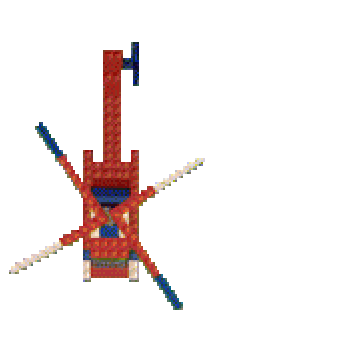
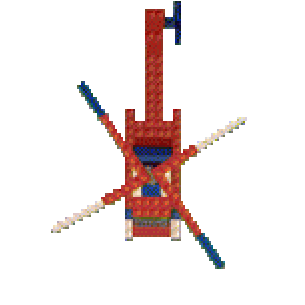
city: fix 5 landing/walking/room bugs
- No re-board on step-out: removed boardHelicopter; takeoff is now only
  walking into the copter (handled via 'h'/callHelicopter). Narrowed
  DOOR_REACH and added STEP_OUT so the person lands clear of the copter.
- Door-only entry: enterableHouse() requires the player to be at the
  narrow door (DOOR_REACH), not anywhere along the house side.
- Bigger person/Tooly in street and room views (per-render fitHeight).
- Room closer to original (room.cpp): larger brick courses
  (tileScale 2.0, gentler side walls bwL/bwR 0.12/0.88), bigger floor
  studs (floorUV 4.5x3.5).
- Stable helicopter body across rotor frames: centroid alignment in
  bake_directional for heli-fly/heli-land so the fuselage no longer
  jumps between blade frames.

Changed region(s): [[0.0295, 0.0, 0.8262, 0.9148]]

diff --git a/src/city/city-scene.ts b/src/city/city-scene.ts
@@ -97,7 +97,6 @@ export class CityScene {
   private toolyX = 0;
   private toolyIX = 0.4;
   private toolyIY = 0.8;
-  private personBaseScale = 1;
   /** Street-view camera centre (world x). Follows the walker within a band so
    * they move on screen before the world scrolls (prgrmmr.cpp min_x/max_x). */
   private streetCamCx = 0;
@@ -110,7 +109,6 @@ export class CityScene {
   private mouseDY = 0;
   private locked = false;
   private lockUnavailable = false;
-  private takingOff = false;
 
   constructor(
     private readonly renderer: Renderer,
@@ -177,9 +175,9 @@ export class CityScene {
     brick.baseTexture.wrapMode = PIXI.WRAP_MODES.REPEAT;
     for (const f of Object.values(assets.floors)) f.baseTexture.wrapMode = PIXI.WRAP_MODES.REPEAT;
     this.backWall = new PIXI.TilingSprite(brick, 64, 64);
-    this.backWall.tileScale.set(0.5);
-    const wallUV = (): Float32Array => new Float32Array([0, 0, 4, 0, 4, 3, 0, 3]);
-    const floorUV = new Float32Array([0, 0, 12, 0, 12, 9, 0, 9]);
+    this.backWall.tileScale.set(2.0); // big, clear brick courses (match original)
+    const wallUV = (): Float32Array => new Float32Array([0, 0, 1.3, 0, 1.3, 1.4, 0, 1.4]);
+    const floorUV = new Float32Array([0, 0, 4.5, 0, 4.5, 3.5, 0, 3.5]); // big lego studs
     const idx = (): Uint16Array => new Uint16Array([0, 1, 2, 0, 2, 3]);
     const mesh = (tex: PIXI.Texture, uv: Float32Array): PIXI.SimpleMesh =>
       // eslint-disable-next-line @typescript-eslint/no-explicit-any
@@ -208,7 +206,6 @@ export class CityScene {
     this.tooly = new DirectionalSprite(assets.tooly, 110);
     fitHeight(this.heliFly.sprite, 130); // re-fit per frame in renderFlying/renderStreet
     fitHeight(this.person.sprite, 116);
-    this.personBaseScale = this.person.sprite.scale.x;
     fitHeight(this.tooly.sprite, 64);
     this.heliFly.sprite.anchor.set(0.5, 0.5);
     this.heliLand.sprite.anchor.set(0.5, 1);
@@ -304,7 +301,6 @@ export class CityScene {
     return this.active;
   }
   resume(): void {
-    this.takingOff = false;
     if (this.model.mode === 'inside') this.model.iy = 0.72;
     else this.model.standUp();
     this.streetCamCx = this.model.cx; // re-centre the street camera on the walker
@@ -385,15 +381,14 @@ export class CityScene {
       this.heliFly.update(dt, true);
       if ((this.model.mode as CityMode) === 'landing') this.toolyX = this.model.cx - BLOCK_W * 0.03;
     } else if (this.model.mode === 'landing') {
-      const up = this.takingOff || this.buttons.right || this.keys.has('ArrowUp');
-      const down = !this.takingOff && (this.buttons.left || this.keys.has('ArrowDown'));
+      const up = this.buttons.right || this.keys.has('ArrowUp');
+      const down = this.buttons.left || this.keys.has('ArrowDown');
       const dir: -1 | 0 | 1 = up ? 1 : down ? -1 : 0;
-      const drift = this.takingOff ? 0 : this.inputPxX(LAND_SCREENS_PER_S, dt) / K_SIDE;
+      const drift = this.inputPxX(LAND_SCREENS_PER_S, dt) / K_SIDE;
       const descentPx = this.heliBaseY() - this.renderer.height * 0.18;
-      const dLandY = this.takingOff ? 0 : -this.inputPxY(LAND_SCREENS_PER_S, dt) / descentPx;
+      const dLandY = -this.inputPxY(LAND_SCREENS_PER_S, dt) / descentPx;
       this.model.land(dir, dt, drift, dLandY);
       this.heliLand.update(dt, true);
-      if ((this.model.mode as CityMode) === 'flying') this.takingOff = false;
     } else if (this.model.mode === 'walking') {
       const px = this.inputPxX(WALK_SCREENS_PER_S, dt);
       const py = this.inputPxY(WALK_SCREENS_PER_S, dt);
@@ -401,8 +396,7 @@ export class CityScene {
       this.model.walk(px / K_SIDE, -py / DEPTH); // mouse up = north (+y)
       this.person.setDirection(this.model.dir);
       this.person.update(dt, moving);
-      if (this.model.boardHelicopter()) this.takingOff = true;
-      else this.model.enterHouse();
+      this.model.enterHouse(); // only triggers at a narrow door (DOOR_REACH)
       const behind = this.model.dir >= 5 || this.model.dir === 0 ? -BLOCK_W * 0.025 : BLOCK_W * 0.025;
       const target = this.model.cx + behind;
       this.toolyX += (target - this.toolyX) * Math.min(1, dt / 280);
@@ -563,6 +557,7 @@ export class CityScene {
     this.heliParked.x = m.landX * K_SIDE;
     fitWidth(this.heliParked, W * HELI_LAND_W_FRAC);
     this.avatar.position.set(0, 0);
+    fitHeight(this.tooly.sprite, H * 0.16);
     this.tooly.sprite.position.set(camX + this.toolyX * K_SIDE, this.walkBaseY());
 
     if (m.mode === 'landing') {
@@ -575,7 +570,7 @@ export class CityScene {
     } else {
       // walking: person at the camera-follow x; +y north → up the screen
       const depthY = -(m.cy - m.streetY) * DEPTH;
-      this.person.sprite.scale.set(this.personBaseScale);
+      fitHeight(this.person.sprite, H * 0.24);
       this.person.sprite.position.set(camX + m.cx * K_SIDE, this.walkBaseY() + depthY);
     }
   }
@@ -586,7 +581,7 @@ export class CityScene {
   private renderInterior(W: number, H: number): void {
     const m = this.model;
     const horizon = H * 0.56; // floor meets the back wall
-    const bwL = W * 0.12; // back wall extent (side walls show beyond it)
+    const bwL = W * 0.12; // back wall extent (side walls show, gently receding)
     const bwR = W * 0.88;
 
     // back wall (brick rectangle)
@@ -615,8 +610,9 @@ export class CityScene {
     const fy = (iy: number): number => horizon + (H - horizon) * iy;
     const depthScale = (iy: number): number => 0.6 + iy * 0.7;
     this.avatar.position.set(0, 0);
+    fitHeight(this.person.sprite, H * 0.34 * depthScale(m.iy));
     this.person.sprite.position.set(fx(m.ix, m.iy), fy(m.iy));
-    this.person.sprite.scale.set(this.personBaseScale * depthScale(m.iy));
+    fitHeight(this.tooly.sprite, H * 0.22 * depthScale(this.toolyIY));
     this.tooly.sprite.position.set(fx(this.toolyIX, this.toolyIY), fy(this.toolyIY));
   }
 

diff --git a/src/city/city-model.ts b/src/city/city-model.ts
@@ -45,7 +45,8 @@ const SCALE_DOUBLE_MS = 750; // ¾ s to double / halve (prgrmmr.cpp grow_value/s
 export const WALK_BAND_N = 8 * TILE_H; // depth north toward the house fronts
 export const WALK_BAND_S = 4 * TILE_H; // depth south toward the viewer
 export const ENTER_DEPTH = 6 * TILE_H; // walk this far north at a door → enter
-export const DOOR_REACH = 8 * TILE_W; // horizontal reach of a door / the copter
+export const DOOR_REACH = 2 * TILE_W; // narrow: only the DOOR is an entrance, not the whole house
+export const STEP_OUT = 9 * TILE_W; // how far beside the copter you step out on landing
 
 export interface House {
   bx: number;
@@ -209,9 +210,7 @@ export class CityModel {
     } else if (this.landY <= 0) {
       this.landY = 0;
       this.landX = this.cx;
-      // Step out well CLEAR of the board range, or we'd re-board (and "bounce")
-      // on the very next frame.
-      this.cx = clamp(this.landX + DOOR_REACH * 2.5, 0, CITY_W);
+      this.cx = clamp(this.landX + STEP_OUT, 0, CITY_W); // step out beside the copter
       this.mode = 'walking';
     }
   }
@@ -266,18 +265,6 @@ export class CityModel {
       this.streetY = nearestStreetY(h.y);
       this.cy = this.streetY;
     }
-  }
-
-  /** Walk into the parked copter (down by the street) → board & take off. */
-  boardHelicopter(): boolean {
-    if (this.mode !== 'walking') return false;
-    if (Math.abs(this.cx - this.landX) > DOOR_REACH) return false;
-    if (this.cy - this.streetY > WALK_BAND_N * 0.5) return false; // up at the houses, not the copter
-    this.cx = this.landX;
-    this.cy = this.streetY;
-    this.landY = 0.05;
-    this.mode = 'landing';
-    return true;
   }
 
   standUp(): void {

diff --git a/test/city-model.test.ts b/test/city-model.test.ts
@@ -163,16 +163,15 @@ describe('CityModel landing / walking / room', () => {
     expect(m.mode).toBe('walking');
   });
 
-  it('boardHelicopter: into the parked copter starts take-off', () => {
+  it('enter only at the narrow door, not anywhere along the house', () => {
     const m = new CityModel();
     m.mode = 'walking';
-    m.streetY = BLOCK_H;
-    m.cy = BLOCK_H;
-    m.landX = 100000;
-    m.cx = 100000 + DOOR_REACH * 4; // away
-    expect(m.boardHelicopter()).toBe(false);
-    m.cx = 100000;
-    expect(m.boardHelicopter()).toBe(true);
-    expect(m.mode).toBe('landing');
+    const h = m.houses[1]!;
+    m.streetY = nearestStreetY(h.y);
+    m.cy = m.streetY + ENTER_DEPTH + 1; // walked up far enough
+    m.cx = h.x + DOOR_REACH + 1; // just past the door's edge → no entry
+    expect(m.enterableHouse()).toBeNull();
+    m.cx = h.x; // at the door
+    expect(m.enterableHouse()).toBe(h);
   });
 });

diff --git a/tools/bake-city.py b/tools/bake-city.py
@@ -98,14 +98,57 @@ def load_bmp_2x_space(bmp, m25_dir, m22_dir):
     return None, False
 
 
-def bake_directional(sprite_geom, out_root, name, m25_dir, m22_dir, use_cycles=None):
-    """Bake a multi-cycle (directional) sprite. Geometry comes from sprite_geom
-    (the .TTS, parsed in 2x space already if from M25). use_cycles limits which
-    cycles to emit (and their output index). Returns a summary dict."""
+def opaque_centroid(img):
+    """Centroid of the opaque pixels — a stable anchor for animation frames
+    whose bounding box wobbles (e.g. spinning rotor blades)."""
+    px = img.load()
+    w, h = img.size
+    sx = sy = n = 0
+    for y in range(h):
+        for x in range(w):
+            if px[x, y][3] > 24:
+                sx += x
+                sy += y
+                n += 1
+    return (sx / n, sy / n) if n else (w / 2.0, h / 2.0)
+
+
+def bake_directional(sprite_geom, out_root, name, m25_dir, m22_dir, use_cycles=None, align="origin"):
+    """Bake a multi-cycle (directional) sprite. align="origin" places frames by
+    the .TTS (ox,oy) logical origin; align="centroid" places them by their
+    opaque-pixel centroid so the body stays put while the rotor spins (fixes the
+    helicopter "jump")."""
     cycles = sprite_geom["cycles"]
     sel = use_cycles if use_cycles is not None else list(range(len(cycles)))
 
-    # Union bounding box across all selected frames (2x lower-left, y-up).
+    if align == "centroid":
+        cents = {}
+        hl = hr = ht = hb = 0.0
+        for ci in sel:
+            for fi, f in enumerate(cycles[ci]["frames"]):
+                im = f["img"]
+                cx, cy = opaque_centroid(im) if im is not None else (0, 0)
+                cents[(ci, fi)] = (cx, cy)
+                if im is not None:
+                    hl = max(hl, cx); hr = max(hr, im.width - cx)
+                    ht = max(ht, cy); hb = max(hb, im.height - cy)
+        W = int(round(hl + hr)); H = int(round(ht + hb))
+        anchor = [hl / W, ht / H]
+        counts = []
+        for out_i, ci in enumerate(sel):
+            cdir = os.path.join(out_root, name, str(out_i))
+            os.makedirs(cdir, exist_ok=True)
+            frames = cycles[ci]["frames"]
+            for fi, f in enumerate(frames):
+                canvas = Image.new("RGBA", (W, H), (0, 0, 0, 0))
+                if f["img"] is not None:
+                    cx, cy = cents[(ci, fi)]
+                    canvas.alpha_composite(f["img"], (int(round(hl - cx)), int(round(ht - cy))))
+                canvas.save(os.path.join(cdir, f"{fi:02d}.png"))
+            counts.append(len(frames))
+        return {"name": name, "w": W, "h": H, "anchor": anchor, "frameCounts": counts}
+
+    # align == "origin": union bounding box, placed by the (ox,oy) logical origin.
     minL = minB = 10**9
     maxR = maxT = -(10**9)
     for ci in sel:
@@ -115,7 +158,6 @@ def bake_directional(sprite_geom, out_root, name, m25_dir, m22_dir, use_cycles=N
             minB = min(minB, oy); maxT = max(maxT, oy + h)
     W = maxR - minL
     H = maxT - minB
-    # Logical origin (0,0) position within the canvas, as an anchor fraction.
     anchor = [(0 - minL) / W, (maxT - 0) / H]
 
     counts = []
@@ -206,12 +248,13 @@ def main():
     # Flying helicopter: M25 geometry (2x), M22 fallback for missing BMPs.
     fly = parse_tts(os.path.join(m25, "HELIOFLY.TTS"))
     prep_geom(fly, m25, m22, from_m25=True)
-    summary["heli-fly"] = bake_directional(fly, out, "heli-fly", m25, m22)
+    # centroid-align so the body stays put while the rotor spins (no "jump")
+    summary["heli-fly"] = bake_directional(fly, out, "heli-fly", m25, m22, align="centroid")
 
     # Landing helicopter: M22 only (no M25 TTS). Cycle 0 = hover (3 frames).
     land = parse_tts(os.path.join(m22, "HELIOLND.TTS"))
     prep_geom(land, m25, m22, from_m25=False)
-    sland = bake_directional(land, out, "heli-land", m25, m22, use_cycles=[0])
+    sland = bake_directional(land, out, "heli-land", m25, m22, use_cycles=[0], align="centroid")
     # collapse the single-"direction" output dir up one level (heli-land/0 -> heli-land)
     summary["heli-land"] = sland
 
